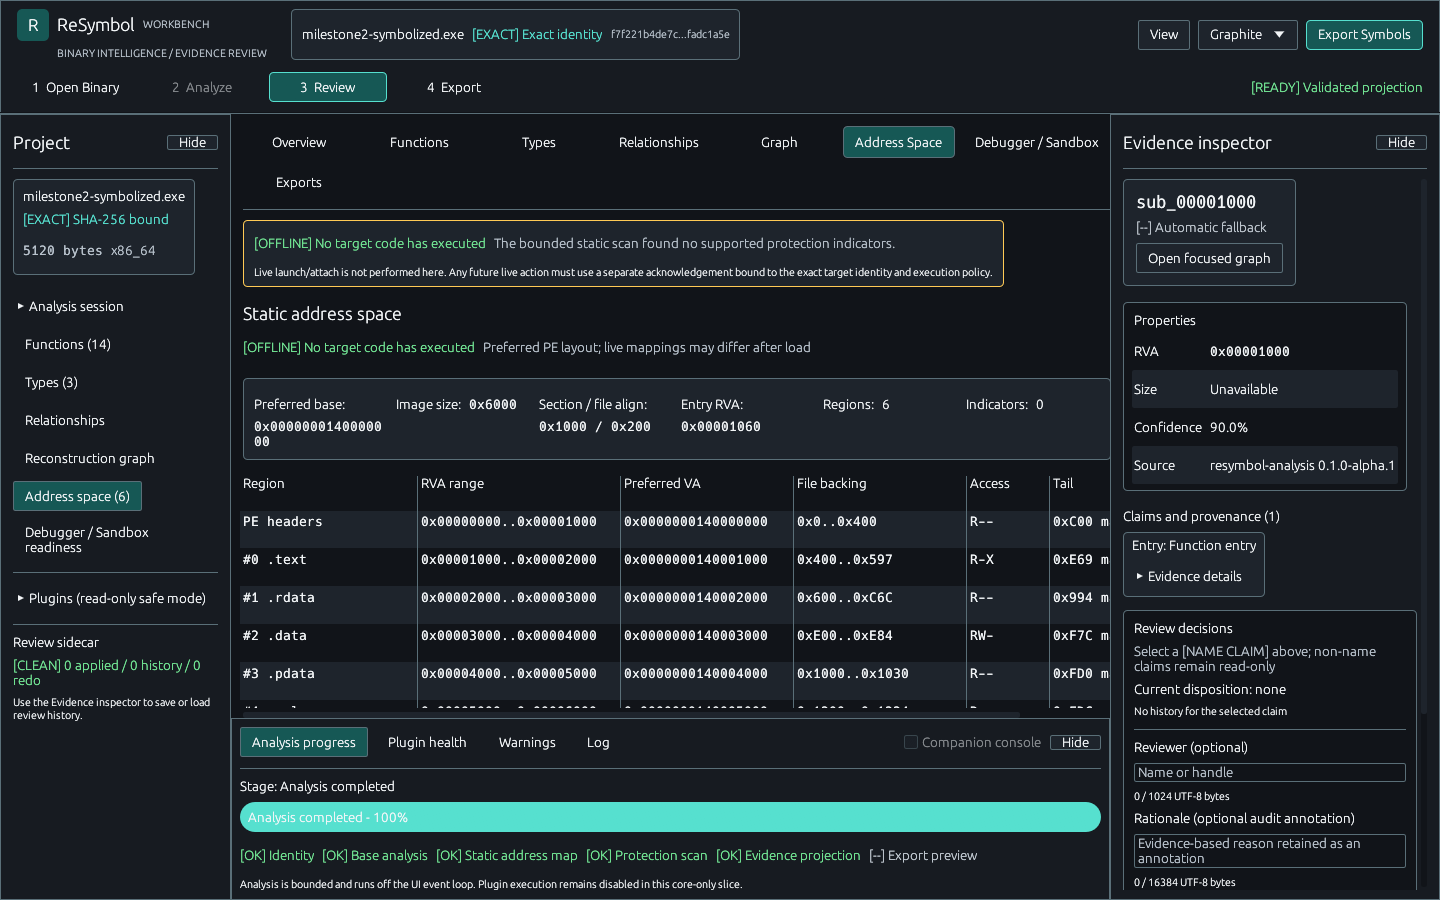
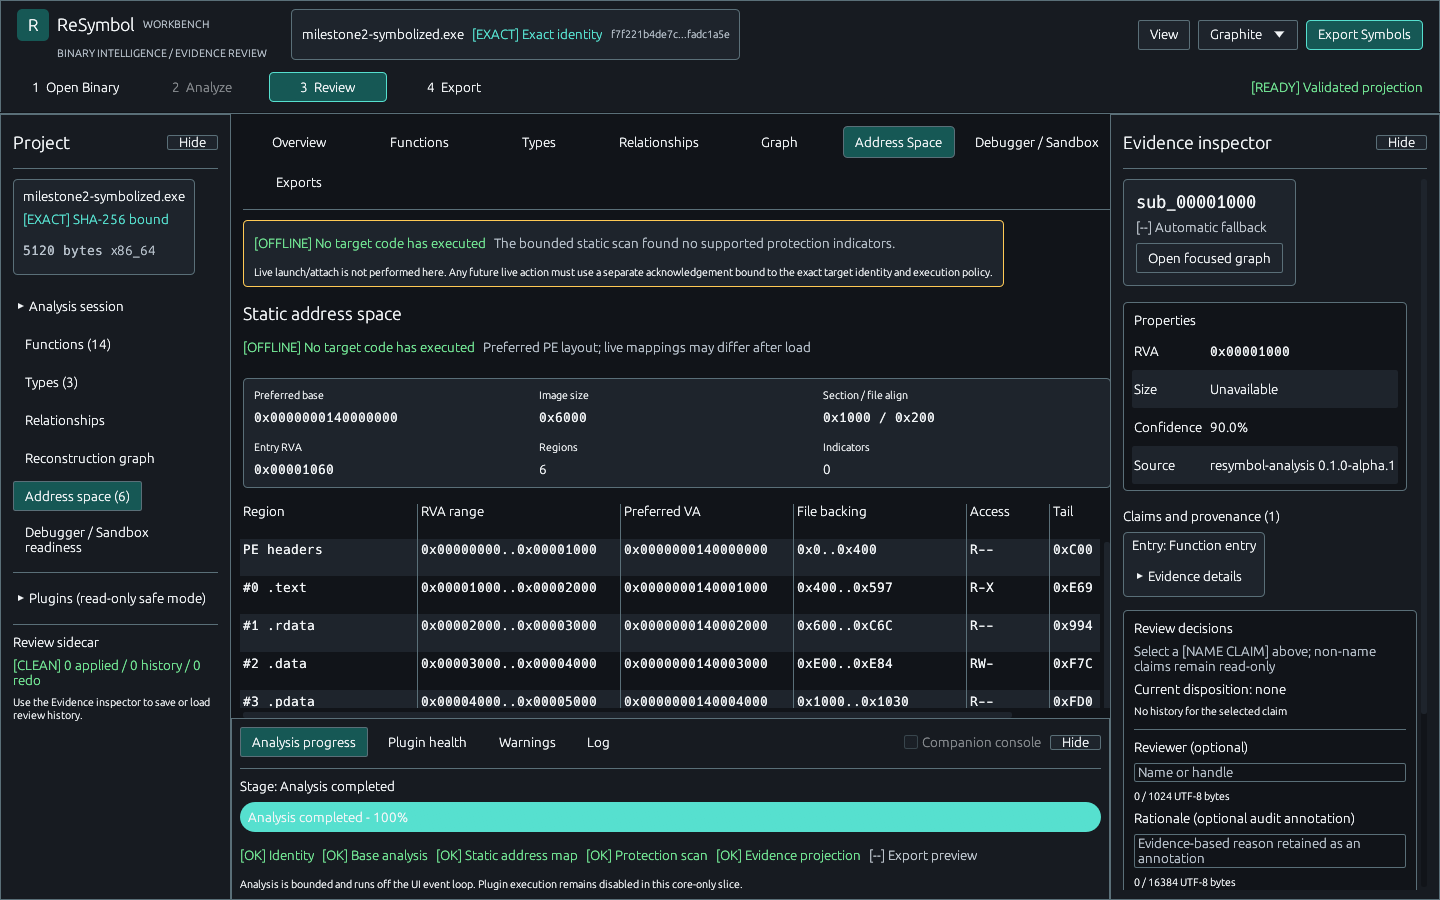
Polish responsive address space summary

diff --git a/crates/resymbol-workbench/src/app.rs b/crates/resymbol-workbench/src/app.rs
@@ -3350,49 +3350,48 @@ impl WorkbenchApp {
             .inner_margin(egui::Margin::same(10))
             .corner_radius(4)
             .show(ui, |ui| {
-                egui::Grid::new("static-address-space-summary")
-                    .num_columns(3)
-                    .spacing(egui::vec2(28.0, 10.0))
-                    .show(ui, |ui| {
-                        property_cell(
-                            ui,
-                            "Preferred base",
-                            &format!("0x{:016X}", address_space.preferred_image_base),
-                            true,
-                        );
-                        property_cell(
-                            ui,
-                            "Image size",
-                            &format!("0x{:X}", address_space.image_size),
-                            true,
-                        );
-                        property_cell(
-                            ui,
-                            "Section / file align",
-                            &format!(
-                                "0x{:X} / 0x{:X}",
-                                address_space.section_alignment, address_space.file_alignment
-                            ),
-                            true,
-                        );
-                        ui.end_row();
-                        property_cell(
-                            ui,
-                            "Entry RVA",
-                            &address_space.entry_point.map_or_else(
-                                || "none".to_owned(),
-                                |entry| format!("0x{:08X}", entry.get()),
-                            ),
-                            true,
-                        );
-                        property_cell(
-                            ui,
-                            "Regions",
-                            &address_space.regions().len().to_string(),
-                            false,
-                        );
-                        property_cell(ui, "Indicators", &indicator_text, false);
-                    });
+                ui.columns(3, |columns| {
+                    property_cell(
+                        &mut columns[0],
+                        "Preferred base",
+                        &format!("0x{:016X}", address_space.preferred_image_base),
+                        true,
+                    );
+                    property_cell(
+                        &mut columns[1],
+                        "Image size",
+                        &format!("0x{:X}", address_space.image_size),
+                        true,
+                    );
+                    property_cell(
+                        &mut columns[2],
+                        "Section / file align",
+                        &format!(
+                            "0x{:X} / 0x{:X}",
+                            address_space.section_alignment, address_space.file_alignment
+                        ),
+                        true,
+                    );
+                });
+                ui.add_space(8.0);
+                ui.columns(3, |columns| {
+                    property_cell(
+                        &mut columns[0],
+                        "Entry RVA",
+                        &address_space.entry_point.map_or_else(
+                            || "none".to_owned(),
+                            |entry| format!("0x{:08X}", entry.get()),
+                        ),
+                        true,
+                    );
+                    property_cell(
+                        &mut columns[1],
+                        "Regions",
+                        &address_space.regions().len().to_string(),
+                        false,
+                    );
+                    property_cell(&mut columns[2], "Indicators", &indicator_text, false);
+                });
             });
 
         let findings = project.protection_assessment.findings();
